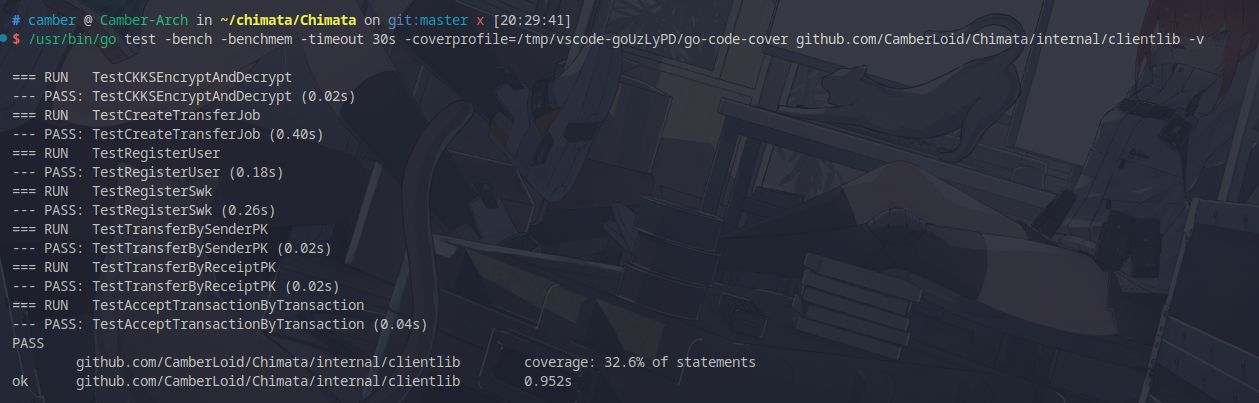
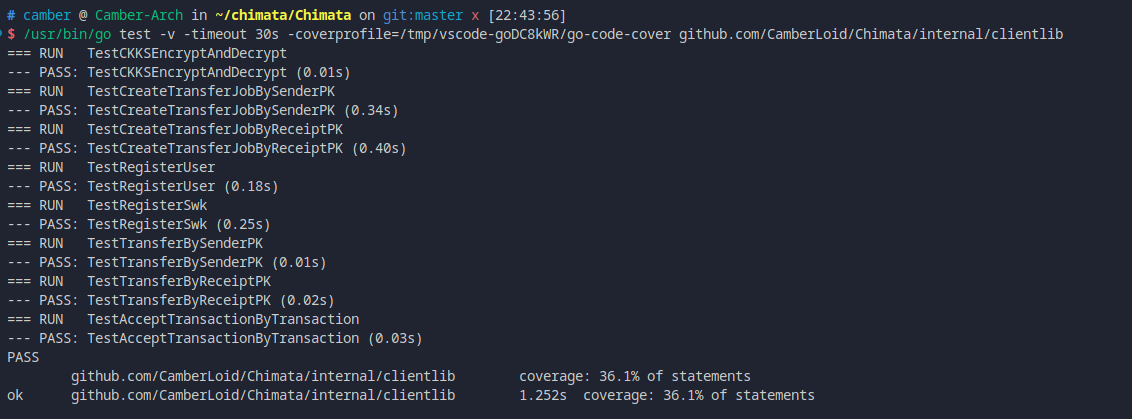
ch5: update test data and analysis

Changed region(s): [[0.0, 0.0, 0.9585, 0.8635], [0.0618, 0.8635, 0.7111, 0.9826], [0.0, 0.9231, 0.0309, 0.9529]]

diff --git a/01-ch5.tex b/01-ch5.tex
@@ -40,7 +40,9 @@ require (
     \item \verb|func TestAcceptTransactionByTransaction(*testing.T)|：测试能否正确生成确认消息；
     \item \verb|func TestRegisterUser(*testing.T)|：测试生成密钥对，将用户信息提交给服务端的功能，并且测试服务端是否能够正确地将用户信息存储到数据库中而不报出异常；
     \item \verb|func TestRegisterSwk(*testing.T)|：在上述函数基础上，测试生成交换密钥，并将其提交给服务端；
-    \item \verb|func TestCreateTransferJob(*testing.T)|：在上述函数基础上，测试能否正确向服务端提交交易信息，以及服务端是否会正确响应请求；
+    \item \verb|func TestCreateTransferJobBySenderPK(*testing.T)|：在上述函数基础上，测试能否正确向服务端提交交易信息，以及服务端是否会正确响应请求；
+    \item \verb|func TestCreateTransferJobByReceiptPK(*testing.T)|：同上，但是测试的是以收款方公钥加密的密文发起的交易，涉及了双方签名和确认的过程，总共两次网络交互；
+    \item \verb|func BenchmarkReEncryptCTWithSwk(*testing.B)|：对重加密性能进行评估的基准测试函数
 \end{itemize}
 
 以及以下的辅助函数：
@@ -66,24 +68,54 @@ $ /usr/bin/go test -timeout 30s \
 $ /usr/bin/go test -benchmem -run=^$ \
   -coverprofile=/tmp/vscode-goUzLyPD/go-code-cover \
   -bench . github.com/CamberLoid/Chimata/internal/clientlib
+
+$ /usr/bin/go test -benchmem -run=^$ \
+  -coverprofile=/tmp/vscode-goUzLyPD/go-code-cover \
+  -bench . github.com/CamberLoid/Chimata/internal/serverlib
 \end{minted}
 
-测试结果如下图\ref*{Fig:test} \ref*{Fig:benchmark} \ref*{Fig:server}所示。
+以 VSCode 的 Golang 插件，执行的测试结果如下图\ref{Fig:test} \ref{Fig:benchmark}所示。
 
 \begin{figure}[ht]
     \centering
-    \includegraphics[width=0.8\linewidth]{./Figures/Test.png}
-    \caption{集成测试输出}\label{Fig:test}
+    \includegraphics[width=0.9\linewidth]{./Figures/Test.png}
+    \caption{以默认参数执行的集成测试输出}\label{Fig:test}
 \end{figure}
 
 \begin{figure}[ht]
     \centering
-    \includegraphics[width=0.8\linewidth]{./Figures/Benchmark.png}
-    \caption{性能测试输出}\label{Fig:benchmark}
+    \includegraphics[width=0.9\linewidth]{./Figures/Bench_Overall.png}
+    \caption{以默认参数执行的性能测试输出}\label{Fig:benchmark}
+\end{figure}
+
+\begin{figure}
+    \centering
+    \includegraphics[width=0.8\linewidth]{./Figures/Bench_ReEncrypt.png}
+    \caption{密文重加密的基准测试数据}\label{Fig:bench_reencrypt}
+\end{figure}
+
+在网络交互部分，笔者对 \verb|TestTransferBySenderPK| 和 \verb|TestTransferByReceiptPK| 进行了基准测试，测试内容为连续运行 100 次各方法，每次均和服务器交互，生成一笔交易并进行确认。测试结果如图\ref{Fig:bench_transaction}所示。可以注意到，服务端处理一次以转出方公钥加密密文的交易，平均耗时约 115 毫秒；而处理一次以转入方公钥加密的密文发起的交易，涉及到创建和确认两步，平均耗时约 140 毫秒。测试后的数据库大小约为 57 MB，如图\ref{Fig:database_size}所示，平均每笔交易占用约 290 KB 的存储空间\footnote{未考虑用户信息的存储消耗}，即每 1 GB 存储空间可以容纳约 3627 笔交易。图\ref{Fig:server}显示了服务端处理方法 \verb|/transaction/create/byReceiptPK| 的输出。
+
+\begin{figure}[ht]
+    \centering
+    \includegraphics[width=0.9\linewidth]{./Figures/Bench_Transaction_all.png}
+    \caption{交易基准测试数据}\label{Fig:bench_transaction}
 \end{figure}
 
 \begin{figure}[ht]
     \centering
-    \includegraphics[width=0.8\linewidth]{./Figures/Server.png}
+    \includegraphics[width=0.9\linewidth]{./Figures/Test_Database_Size.png}
+    \caption{数据库大小}\label{Fig:database_size}
+\end{figure}
+
+\begin{figure}[ht]
+    \centering
+    \includegraphics[width=0.9\linewidth]{./Figures/Server_ReceiptPK.png}
     \caption{服务端日志输出}\label{Fig:server}
 \end{figure}
+
+在涉及网络交互的部分之外，本文也对加解密性能和重加密性能进行测试。测试结果如图\ref{Fig:benchmark}和图\ref{Fig:bench_reencrypt}所示，平均每次加解密时间总和约为 12 ms，而重加密的时间开销约为 3 ms。可以看到，加解密性能和重加密性能都较为优秀。与网络交互部分的实验数据进行对比可以发现，实际密码学函数的开销，即加解密和重加密的时间的总和，约占据了单次网络交互时间的约 15\% 的比例。可以推测，在网络交互部分，服务端的数据库操作开销占比较大。
+
+\section{本章小结}
+
+为测试提出方案的性能，本章对基于同态加密的用户交易金额隐私保护交易方案中的密码学部分以及交易处理部分，借助 Golang 工具链进行了基准测试。实验结果表明，在预设的安全参数下，本文所提出的交易方案，在密码学部分具有较高的效率；从总体来看，本方案的单次交易性能也符合预期，在实际应用中具有高效性。

diff --git a/01-ch6.tex b/01-ch6.tex
@@ -7,11 +7,3 @@
     \item 研究了同态加密库 Lattigo 的使用方法和特性，了解了其对 CKKS 方案的相关暴露的方法等。在此基础之上，编写了交易方案的大部分实现，并以库的形式发布；
     \item 研究了 Golang 工具链的测试框架，并在此之上编写了代码实现的部分测试用例。进行测试，验证了方案的可行性。总的来说，代码使用的 Lattigo 提供的加解密方法和同态计算方法有着较好的性能，且加解密精度符合要求
 \end{enumerate}
-
-然而，由于时间有限，本文所提出的方案和配套的实现还有诸多不足和遗憾：
-
-\begin{enumerate}
-    \item 未能做到基于私钥-公钥的代理重加密\cite{proxy_re_encryption}。在撰写本文正在进行收尾工作时，笔者发现了有基于 CKKS 方案的代理重加密方案被提出\cite{cryptoeprint:2017/410}。然而目前笔者未找到该方案的 Golang 实现，也暂时无如此的精力将该方案进行 Golang 的移植。若能实现该方案，则可以进一步保证本交易方案的安全性。
-    \item 作为简单的交易方案，并未引入零知识证明和区块链等技术。
-    \item 方案中描述了监管方，但是样例实现并未给出监管方的具体实现。这意味着本方案实现并不能保证用户出现透支时，监管方能够及时地对用户进行透支的处理。
-\end{enumerate}
